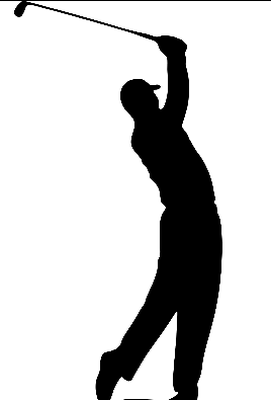
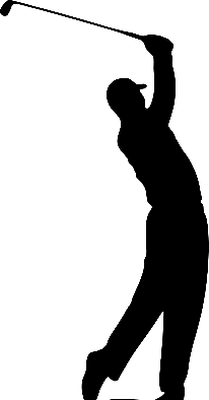
웨지 아이콘 위 가로선 제거(원본 테두리) + 웨지만 15% 확대 (v153)

Changed region(s): [[0.0, 0.0, 1.0, 1.0]]

diff --git a/css/style.css b/css/style.css
@@ -1977,23 +1977,32 @@ body, .view, .cf-screen, .card, .sheet { word-break: keep-all; overflow-wrap: br
    원본 4장은 tools/make_club_icons_src.py 로 **여백 없이 딱 잘라서** 만든다.
    알파도 그때 단단하게 만든다 — 반투명이 남으면 그 아이콘만 회색으로 떠 보인다. */
 .cf-club-ico {
-  display: block; width: 62px; height: 72px; background-color: #000;
+  display: block; width: 62px; height: 83px; background-color: #000;
   -webkit-mask-repeat: no-repeat; mask-repeat: no-repeat;
   -webkit-mask-position: bottom center; mask-position: bottom center;
-  -webkit-mask-size: contain; mask-size: contain;
+  /* ⚠ contain 을 쓰지 않는다 — contain 은 상자 크기에 그림을 맞추므로
+     하나만 키우려고 상자를 키우면 네 개가 전부 따라 커진다.
+     그래서 **그림 높이를 직접 적는다**(auto 72px = 가로는 비율대로).
+     상자 높이 83px 은 넷이 같다 — 타일이 2열 격자라 상자 높이가 서로 다르면
+     웨지·퍼터 줄만 아래로 내려앉는다. 남는 위쪽은 빈 공간이고, 그림은
+     mask-position: bottom 이라 항상 바닥에 붙어 네 개의 발 높이가 맞는다. */
+  -webkit-mask-size: auto 72px; mask-size: auto 72px;
 }
 .cf-club-ico.ico-golfer { -webkit-mask-image: url("../assets/golfer.png"); mask-image: url("../assets/golfer.png"); }
-/* 아이언만 상자를 넓힌다.
-   아이언은 클럽이 옆으로 길게 뻗어 가로가 세로보다 길다(520×400). contain 은 넓은 쪽에
-   맞추므로 62px 폭에 갇혀 사람이 다른 셋보다 작아 보인다(사장님 지적 2026-07-29).
-   62 → 94px 로 넓히면 사람 키가 55px → 72px 이 되어 나머지 셋과 **정확히 같아진다**.
-   (사장님은 15% 를 말씀하셨지만 재보니 그건 절반만 메우는 값이었다 — 71px, 사람 55px)
-   타일이 가운데 정렬이라 위치는 그대로고, 320px 폭 폰에서도 타일 안에 들어간다.
-   ⚠ mask-size 를 % 로 키우는 방법은 쓰지 말 것 — 상자를 넘는 부분이 잘려
-      클럽 끝이 싹둑 잘린다. */
+/* 아이언만 가로 기준으로 맞춘다.
+   아이언은 클럽이 옆으로 길게 뻗어 가로가 세로보다 길다(520×400). 세로를 72px 로 맞추면
+   가로가 94px 이 되므로 상자도 94px 로 넓혀 클럽 헤드까지 담는다(사장님 지적 2026-07-29).
+   이렇게 하면 사람 키가 55px → 72px 이 되어 나머지 셋과 **정확히 같아진다**.
+   타일이 가운데 정렬이라 위치는 그대로고, 320px 폭 폰에서도 타일 안에 들어간다. */
 .cf-club-ico.ico-iron   { width: 94px;
+  -webkit-mask-size: 94px auto; mask-size: 94px auto;
   -webkit-mask-image: url("../assets/iron.png");   mask-image: url("../assets/iron.png"); }
-.cf-club-ico.ico-wedge  { -webkit-mask-image: url("../assets/wedge.png");  mask-image: url("../assets/wedge.png"); }
+/* 웨지만 15% 크게 (사장님 지시 2026-07-29 — "나머지에 비해 이미지가 좀 작아요").
+   웨지는 피니시 자세라 세로로 홀쭉해 같은 72px 이어도 폭이 37px 밖에 안 된다
+   (드라이버 46 · 퍼터 43 · 아이언 94). 그래서 눈에는 혼자 작아 보인다.
+   72 → 83px (×1.15). 상자 높이 83px 안에 딱 들어가므로 잘리는 곳은 없다. */
+.cf-club-ico.ico-wedge  { -webkit-mask-size: auto 83px; mask-size: auto 83px;
+  -webkit-mask-image: url("../assets/wedge.png");  mask-image: url("../assets/wedge.png"); }
 .cf-club-ico.ico-putter { -webkit-mask-image: url("../assets/putter.png"); mask-image: url("../assets/putter.png"); }
 /* 클럽 이름에 색 — 네 가지를 눈으로 바로 구분하게 한다.
    ⚠ 앱의 색 역할(브랜드 그린 · 깃발 빨강 · 강수 파랑 · 경고 주황)과 겹치지 않는

diff --git a/tools/build_club_icons.js b/tools/build_club_icons.js
@@ -1,4 +1,12 @@
-/* 클럽 피팅 아이콘 만들기 — assets/src/ 원본 → assets/*.png (마스크용)
+/* ⛔ 지금은 쓰지 않는 옛 방식입니다 — 돌리면 배포 중인 아이콘이 덮어써집니다.
+ *
+ * 현재 아이콘 4종은 **python tools/make_club_icons_src.py** 가 만듭니다
+ * (여백 없이 딱 잘라 세로 400px, CSS 가 mask-size 로 크기를 정함).
+ * 이 스크립트는 260×300 캔버스에 여백을 두고 넣는 옛 방식이라 결과가 다릅니다.
+ * 기록으로만 남겨 둡니다. **실행하지 마세요.**
+ *
+ * ── 아래는 당시 기록 ─────────────────────────────────────────────
+ * 클럽 피팅 아이콘 만들기 — assets/src/ 원본 → assets/*.png (마스크용)
  *
  *   node tools/build_club_icons.js
  *

diff --git a/js/app.js b/js/app.js
@@ -4,8 +4,8 @@
  * ========================================================= */
 "use strict";
 
-const APP_VER = "v152"; // 배포 버전 (홈 화면 배지에 표시)
-const APP_NOTE = "배포 스크립트가 루트 문서"; // 이번 업데이트 내용 — 배포 시 자동 갱신됨
+const APP_VER = "v153"; // 배포 버전 (홈 화면 배지에 표시)
+const APP_NOTE = "웨지 아이콘 위 가로선 제거"; // 이번 업데이트 내용 — 배포 시 자동 갱신됨
 const STORAGE_KEY = "riweather.courses.v1";
 const GEM_KEY = "riweather.gemini"; // 정밀 인식(비전 AI) 개인 키 저장소
 // 기본 제공 키 (무료 한도 공유) — 개인 키를 설정하면 그 키가 우선됩니다

diff --git a/sw.js b/sw.js
@@ -1,5 +1,5 @@
 /* 골프라이프 서비스 워커 — 앱 뼈대는 캐시, 날씨 데이터는 항상 네트워크 */
-const CACHE = "riweather-v152";
+const CACHE = "riweather-v153";
 const CORE = [
   "./",
   "./index.html",

diff --git a/tools/make_club_icons_src.py b/tools/make_club_icons_src.py
@@ -48,6 +48,29 @@ def drop_ground(mask):
     return mask.crop((0, 0, w, cut)) if cut < h else mask
 
 
+def drop_top_border(mask):
+    """윗변에 붙은 테두리 선을 지운다.
+
+    웨지 원본(wedge.jpg)은 **맨 윗줄 1px 이 가로로 꽉 찬 검은 선**이다(스캔/저장 때 붙은 테두리).
+    작은 아이콘으로 줄이면 클럽 위에 뜬금없는 '가로 막대'로 보인다(사장님 지적 2026-07-29).
+    아래쪽만 보던 drop_ground 로는 못 잡아서 그대로 배포됐었다.
+
+    위쪽 5% 안에서 가로로 **90% 이상** 채워진 줄만 지운다.
+    사람도 클럽도 이만큼 가로로 꽉 차지 않는다 — 네 원본 전부 실측해 확인했다
+    (드라이버·아이언·퍼터는 윗줄에 어두운 픽셀이 0개라 이 함수가 아무것도 하지 않는다).
+    """
+    w, h = mask.size
+    mp = mask.load()
+    cut = 0
+    for y in range(0, int(h * 0.05) + 1):
+        filled = sum(1 for x in range(w) if mp[x, y] > 128)
+        if filled > w * 0.90:
+            cut = y + 1
+        else:
+            break
+    return mask.crop((0, cut, w, h)) if cut else mask
+
+
 def drop_specks(mask):
     """바닥 그림자 꼬리만 지운다.
 
@@ -117,6 +140,7 @@ def to_mask(path):
             else:
                 mp[x, y] = int((170 - v) / 70 * 255)  # 안티에일리어싱 가장자리
 
+    mask = drop_top_border(mask)
     mask = drop_ground(mask)
     mask = drop_specks(mask)
 

diff --git a/tools/draw_wedge_icon.py b/tools/draw_wedge_icon.py
@@ -1,5 +1,13 @@
 # -*- coding: utf-8 -*-
-"""웨지 아이콘 — 아이언과 확실히 구분되게 직접 그린다.
+"""⛔ 지금은 쓰지 않는 옛 방식입니다 — 돌리면 배포 중인 아이콘이 덮어써집니다.
+
+사장님 지시(2026-07-29): "직접 그린 아이콘이 허접하니 주신 이미지를 그대로 쓸 것."
+현재 웨지 아이콘은 `tools/make_club_icons_src.py` 가 `assets/src/wedge.jpg` 로 만듭니다.
+이 파일은 그때 왜 이렇게 했는지 기록으로만 남겨 둡니다. **실행하지 마세요.**
+(같은 이유로 `tools/build_club_icons.js` 도 쓰지 않습니다 — 둘 다 assets/*.png 를 덮어씁니다.)
+
+── 아래는 당시 기록 ──────────────────────────────────────────────
+웨지 아이콘 — 아이언과 확실히 구분되게 직접 그린다.
 
 배경(2026-07-28): 아이언·웨지가 같은 클럽 아이콘을 각도만 돌린 것이라
                  화면에서 구분이 안 된다는 지적을 받았다.
